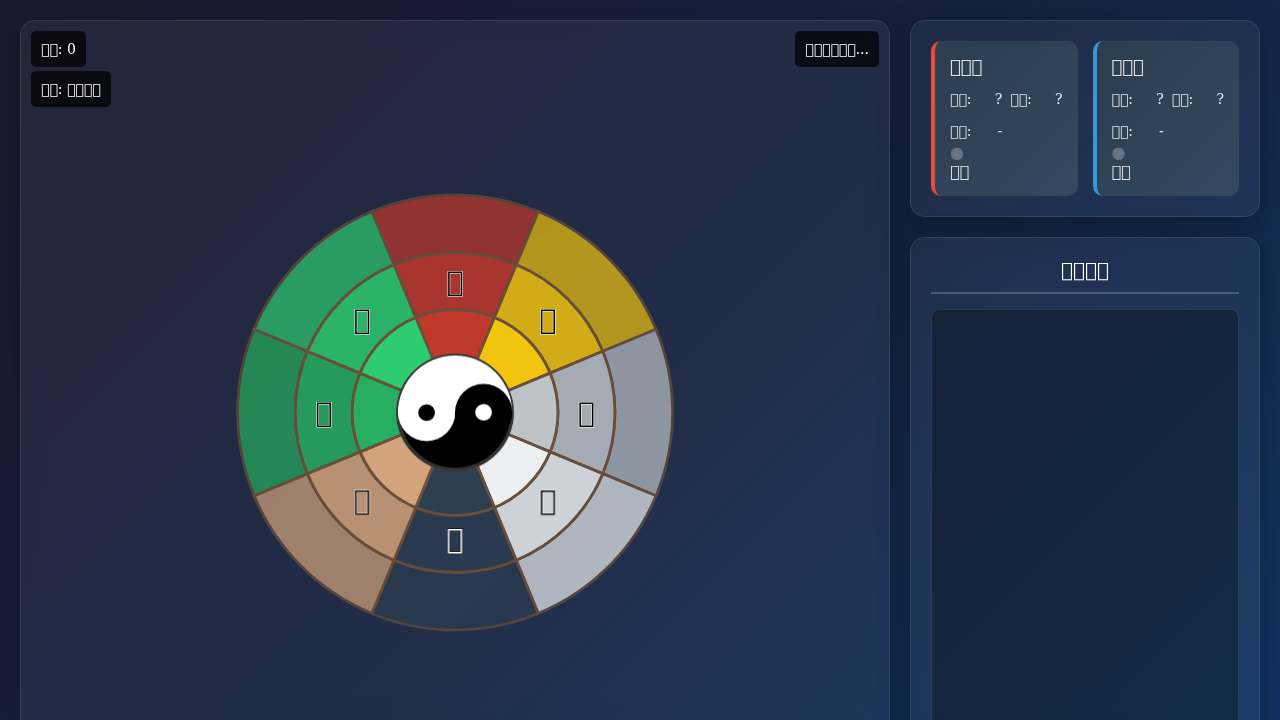
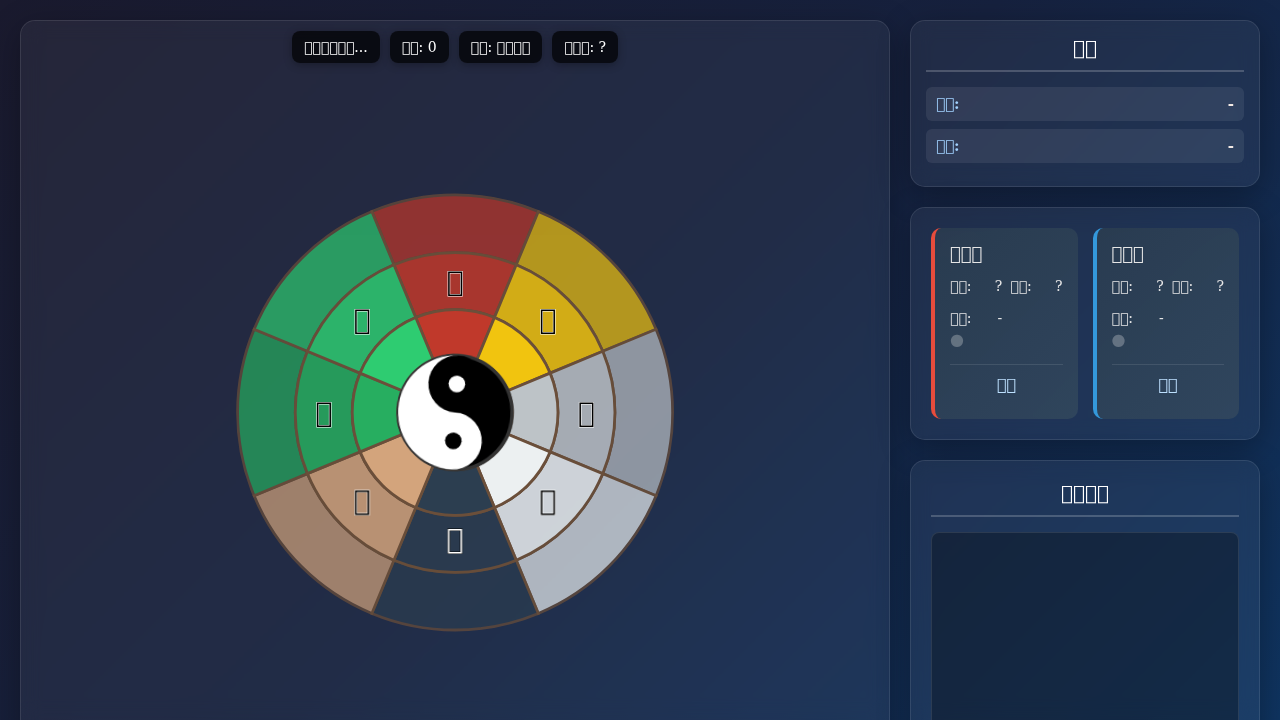
Refactor: Clean up and optimize game logic
This commit addresses several technical debt items and a critical bug to improve the maintainability and robustness of the codebase.

Key changes:
- Fixed a critical bug where the game's turn and solar term progression was handled in two separate places. This logic has been centralized in `Game.run_next_phase()` for clarity and correctness.
- Removed the obsolete `GameState.advance_to_next_player()` method, which was a remnant of the old turn-based system.
- Eliminated redundant `story_logger` configuration in `src/game.py`. The logger is now configured only in the application's entry point (`server.py`).
- Removed the unused `test_cards` parameter and its associated logic from the `Game.setup()` method, cleaning up dead code.

diff --git a/tianji-fix-data-and/static/style.css b/tianji-fix-data-and/static/style.css
@@ -12,12 +12,17 @@ button:disabled { background: #666; cursor: not-allowed; transform: none; box-sh
 .sidebar { display: flex; flex-direction: column; gap: 20px; }
 .panel { background: rgba(255, 255, 255, 0.05); border-radius: 15px; padding: 20px; box-shadow: 0 8px 32px rgba(0, 0, 0, 0.3); backdrop-filter: blur(10px); border: 1px solid rgba(255, 255, 255, 0.1); overflow: hidden; }
 .player-info { display: grid; grid-template-columns: 1fr 1fr; gap: 15px; }
-.player-card { background: linear-gradient(135deg, #2c3e50 0%, #34495e 100%); padding: 15px; border-radius: 10px; border-left: 4px solid; }
+.player-card { background: linear-gradient(135deg, rgba(44, 62, 80, 0.8) 0%, rgba(52, 73, 94, 0.8) 100%); padding: 15px; border-radius: 10px; border-left: 4px solid; display: flex; flex-direction: column;}
 .player-1 { border-left-color: #e74c3c; }
 .player-2 { border-left-color: #3498db; }
 .player-name { font-size: 18px; font-weight: bold; margin-bottom: 10px; display: flex; align-items: center; gap: 8px; }
 .player-stats { display: grid; grid-template-columns: 1fr 1fr; gap: 8px; font-size: 14px; }
 .stat { display: flex; justify-content: space-between; padding: 4px 0; }
+.player-hand-container { margin-top: 15px; padding-top: 10px; border-top: 1px solid rgba(255, 255, 255, 0.1); }
+.player-hand-container h4 { font-size: 16px; margin-bottom: 10px; text-align: center; color: #bde0fe; }
+.player-hand { display: flex; flex-wrap: wrap; gap: 8px; justify-content: center; }
+.card { background: #4a4e69; color: #f2e9e4; padding: 6px 10px; border-radius: 5px; font-size: 13px; border: 1px solid #9a8c98; box-shadow: 0 2px 5px rgba(0,0,0,0.2); cursor: help; transition: all 0.2s ease-in-out; text-align: center; }
+.card:hover { transform: translateY(-2px); background: #6b6392; box-shadow: 0 4px 10px rgba(0,0,0,0.3); }
 h2 { color: #fff; margin-bottom: 15px; font-size: 20px; text-align: center; border-bottom: 2px solid rgba(255, 255, 255, 0.2); padding-bottom: 10px; }
 .zone { stroke: #6b4f3a; stroke-width: 4; cursor: pointer; transition: all 0.3s ease-in-out; }
 .gong-li   { fill: #c0392b; } .gong-kun  { fill: #f1c40f; } .gong-dui  { fill: #bdc3c7; } .gong-qian { fill: #ecf0f1; } .gong-kan  { fill: #2c3e50; } .gong-gen  { fill: #d3a47c; } .gong-zhen { fill: #27ae60; } .gong-xun  { fill: #2ecc71; }
@@ -35,10 +40,12 @@ h2 { color: #fff; margin-bottom: 15px; font-size: 20px; text-align: center; bord
 .qimen-door { pointer-events: none; }
 .door-circle { fill: rgba(255, 255, 255, 0.95); stroke: #4ecdc4; stroke-width: 4; filter: drop-shadow(0 0 12px rgba(78, 205, 196, 0.6)); }
 .door-text { font-size: 23px; font-weight: bold; fill: #2c3e50; text-anchor: middle; dominant-baseline: central; pointer-events: none; font-family: 'KaiTi', 'SimSun', serif; filter: drop-shadow(0 0 8px rgba(255, 255, 255, 0.8)); }
-.ju-info { position: absolute; top: 10px; right: 10px; background: rgba(0, 0, 0, 0.7); color: white; padding: 10px; border-radius: 5px; font-size: 14px; z-index: 1000; }
-.turn-info { position: absolute; top: 10px; left: 10px; background: rgba(0, 0, 0, 0.7); color: white; padding: 10px; border-radius: 5px; font-size: 14px; z-index: 1000; }
-.phase-info { position: absolute; top: 50px; left: 10px; background: rgba(0, 0, 0, 0.7); color: white; padding: 10px; border-radius: 5px; font-size: 14px; z-index: 1000; }
-.player-status { position: absolute; bottom: 10px; left: 10px; background: rgba(0, 0, 0, 0.7); color: white; padding: 10px; border-radius: 5px; font-size: 12px; z-index: 1000; max-width: 300px; }
+.info-bar { position: absolute; top: 10px; left: 10px; right: 10px; display: flex; justify-content: center; z-index: 1000; gap: 10px; }
+.info-bar > div { background: rgba(0, 0, 0, 0.7); color: white; padding: 8px 12px; border-radius: 8px; font-size: 14px; box-shadow: 0 2px 8px rgba(0,0,0,0.3); text-align: center; flex-shrink: 0; }
+.celestial-cards-info { padding: 15px; }
+.celestial-card { display: flex; justify-content: space-between; align-items: center; padding: 8px 10px; background: rgba(255, 255, 255, 0.08); border-radius: 6px; margin-bottom: 8px; font-size: 15px; cursor: help; }
+.celestial-card .card-label { font-weight: bold; color: #a2d2ff; margin-right: 10px; }
+.celestial-card .card-name { font-weight: bold; color: #f2e9e4; }
 .log-panel { flex-grow: 1; display: flex; flex-direction: column; }
 #log-messages { flex-grow: 1; background: rgba(0, 0, 0, 0.3); border-radius: 8px; padding: 15px; overflow-y: auto; font-family: 'Courier New', Courier, monospace; font-size: 14px; line-height: 1.6; color: #a2d2ff; border: 1px solid rgba(255, 255, 255, 0.1); }
 #log-messages p { margin-bottom: 5px; }
@@ -46,3 +53,5 @@ h2 { color: #fff; margin-bottom: 15px; font-size: 20px; text-align: center; bord
 .log-message { border-bottom: 1px solid rgba(162, 210, 255, 0.2); padding-bottom: 5px; margin-bottom: 5px; }
 .log-message.error { color: #ff6b6b; font-weight: bold; }
 .log-message.victory { color: #50fa7b; font-weight: bold; font-size: 16px; text-align: center; }
+.log-message.elimination { color: #ff8fa3; font-style: italic; }
+.winner-overlay { position: fixed; top: 0; left: 0; width: 100%; height: 100%; background: rgba(0, 0, 0, 0.85); color: #50fa7b; font-size: 48px; font-weight: bold; display: flex; align-items: center; justify-content: center; z-index: 9999; text-shadow: 0 0 20px #50fa7b; }

diff --git a/tianji-fix-data-and/static/game.js b/tianji-fix-data-and/static/game.js
@@ -22,6 +22,9 @@ document.addEventListener('DOMContentLoaded', () => {
         juInfo: document.getElementById('ju-info'),
         turnInfo: document.getElementById('turn-info'),
         phaseInfo: document.getElementById('phase-info'),
+        gameFundInfo: document.getElementById('game-fund-info'),
+        celestialStemCardName: document.querySelector('#celestial-stem-card .card-name'),
+        celestialBranchCardName: document.querySelector('#celestial-branch-card .card-name'),
         logMessages: document.getElementById('log-messages'),
         qimenDoorsGroup: document.getElementById('qimen-doors'),
     };
@@ -96,9 +99,30 @@ document.addEventListener('DOMContentLoaded', () => {
 
         // Update Game Info
         const dunText = state.dun_type === "YANG" ? "阳遁" : "阴遁";
-        elements.juInfo.textContent = `${state.solar_term || '未知节气'} | ${dunText} | ${state.current_celestial_stem ? state.current_celestial_stem.name + state.current_terrestrial_branch.name : ''}`;
+        elements.juInfo.textContent = `${state.solar_term || '未知节气'} | ${dunText}`;
         elements.turnInfo.textContent = `回合: ${state.current_turn}`;
         elements.phaseInfo.textContent = `阶段: ${state.current_phase}`;
+        elements.gameFundInfo.textContent = `奖金池: ${state.game_fund}`;
+
+        // Update Celestial Cards Panel
+        const stemCard = state.current_celestial_stem;
+        const branchCard = state.current_terrestrial_branch;
+
+        if (stemCard) {
+            elements.celestialStemCardName.textContent = stemCard.name;
+            elements.celestialStemCardName.parentElement.title = stemCard.description;
+        } else {
+            elements.celestialStemCardName.textContent = '-';
+            elements.celestialStemCardName.parentElement.title = '';
+        }
+
+        if (branchCard) {
+            elements.celestialBranchCardName.textContent = branchCard.name;
+            elements.celestialBranchCardName.parentElement.title = branchCard.description;
+        } else {
+            elements.celestialBranchCardName.textContent = '-';
+            elements.celestialBranchCardName.parentElement.title = '';
+        }
 
         // Update Log
         elements.logMessages.innerHTML = ''; // Clear old logs

diff --git a/tianji-fix-data-and/game.html b/tianji-fix-data-and/game.html
@@ -11,9 +11,12 @@
     <div class="container">
         <div class="game-area">
             <div class="game-board-container">
-                <div class="ju-info" id="ju-info">等待游戏开始...</div>
-                <div class="turn-info" id="turn-info">回合: 0</div>
-                <div class="phase-info" id="phase-info">阶段: 等待开始</div>
+                <div class="info-bar">
+                    <div class="ju-info" id="ju-info">等待游戏开始...</div>
+                    <div class="turn-info" id="turn-info">回合: 0</div>
+                    <div class="phase-info" id="phase-info">阶段: 等待开始</div>
+                    <div class="game-fund-info" id="game-fund-info">奖金池: ?</div>
+                </div>
 
                 <svg id="game-board" viewBox="0 0 800 800">
                     <g id="di-ring" class="ring-group"></g>
@@ -39,6 +42,17 @@
             </div>
         </div>
         <div class="sidebar">
+            <div class="panel celestial-cards-info">
+                <h2>天时</h2>
+                <div class="celestial-card" id="celestial-stem-card">
+                    <span class="card-label">天干:</span>
+                    <span class="card-name">-</span>
+                </div>
+                <div class="celestial-card" id="celestial-branch-card">
+                    <span class="card-label">地支:</span>
+                    <span class="card-name">-</span>
+                </div>
+            </div>
             <div class="panel player-info">
                 <div class="player-card player-1">
                     <div class="player-name" id="player1-name">玩家一</div>

diff --git a/src/game.py b/src/game.py
@@ -11,6 +11,7 @@ from .card import Card
 from .effect_engine import EffectEngine
 from . import five_elements as fe
 from . import qimen as qm
+from .solar_term import SOLAR_TERMS_CYCLE
 from .phases import (
     time_phase,
     placement_phase,
@@ -20,15 +21,9 @@ from .phases import (
     upkeep_phase,
 )
 
-# Setup a dedicated logger for the game's narrative story
+# Get the logger for the game's narrative story.
+# The configuration of this logger is handled in the main application entry point (e.g., server.py).
 story_logger = logging.getLogger("story_logger")
-story_logger.setLevel(logging.INFO)
-story_logger.propagate = False
-if not story_logger.handlers:
-    handler = logging.StreamHandler()
-    formatter = logging.Formatter('%(message)s')
-    handler.setFormatter(formatter)
-    story_logger.addHandler(handler)
 
 
 class Game:
@@ -55,8 +50,8 @@ class Game:
         self.phase_index = 0
 
 
-    def setup(self, test_cards: List[str] = None):
-        """Initializes the game state, with an option to inject specific test cards."""
+    def setup(self):
+        """Initializes the game state."""
         logging.info("--- Setting up a new game of Tianji Bian ---")
         story_logger.info("--- Setting up a new game of Tianji Bian ---")
 
@@ -91,15 +86,6 @@ class Game:
         if ren_zones and len(self.game_state.players) > 2:
              self.game_state.players[2].position = ren_zones[1]
 
-        if test_cards:
-            for i, player in enumerate(self.game_state.players):
-                if i < len(test_cards):
-                    card_id_to_find = test_cards[i]
-                    test_card = next((c for c in self.game_state.basic_deck if c.card_id == card_id_to_find), None)
-                    if test_card:
-                        player.add_card_to_hand(test_card)
-                        self.game_state.basic_deck.remove(test_card)
-
         for player in self.game_state.players:
             while len(player.hand) < 7:
                 self._reshuffle_if_needed('basic')
@@ -123,6 +109,14 @@ class Game:
         if self.phase_index == 0:
             self.game_state.current_turn += 1
             story_logger.info(f"\n***** Round {self.game_state.current_turn} *****")
+
+            # A full round of play has passed, advance to the next solar term
+            if self.game_state.current_turn > 1: # Don't advance on the first round's start
+                self.game_state.solar_term_index = (self.game_state.solar_term_index + 1) % len(SOLAR_TERMS_CYCLE)
+                story_logger.info(f"*** New Solar Term: {self.game_state.current_solar_term.name} ({self.game_state.dun_type.value} Dun). ***")
+                # The Qi Men gates shift with the new solar term
+                self._update_qimen_gates()
+
             self._resolve_delayed_effects("NEXT_TURN_START")
 
         # Get the current phase

diff --git a/jules-scratch/verification/verify_ui_enhancements.py b/jules-scratch/verification/verify_ui_enhancements.py
@@ -1,0 +1,43 @@
+from playwright.sync_api import sync_playwright, expect
+
+def run_verification(playwright):
+    """
+    This script verifies the new UI enhancements for the Tianji Bian web application.
+    - It checks that the new Game Fund and Celestial Card panels are visible.
+    - It takes a screenshot of the initial, fully-rendered UI.
+    """
+    browser = playwright.chromium.launch(headless=True)
+    page = browser.new_page()
+
+    try:
+        # 1. Navigate to the application
+        page.goto("http://127.0.0.1:5000")
+
+        # 2. Wait for the initial game state to load and verify new elements.
+        # Check for the Game Fund display
+        expect(page.locator("#game-fund-info")).to_contain_text("奖金池:", timeout=10000)
+        expect(page.locator("#game-fund-info")).not_to_contain_text("?", timeout=10000)
+
+        # Check for the Celestial Cards panel
+        expect(page.locator("#celestial-stem-card .card-name")).not_to_have_text("-", timeout=10000)
+        expect(page.locator("#celestial-branch-card .card-name")).not_to_have_text("-", timeout=10000)
+
+        # Check that player hands are rendered
+        expect(page.locator("#player1-hand")).not_to_be_empty()
+        expect(page.locator("#player2-hand")).not_to_be_empty()
+
+        # 3. Take a screenshot for visual confirmation.
+        screenshot_path = "jules-scratch/verification/ui_enhancements.png"
+        page.screenshot(path=screenshot_path)
+        print(f"Screenshot saved to {screenshot_path}")
+
+    except Exception as e:
+        print(f"An error occurred during Playwright execution: {e}")
+        page.screenshot(path="jules-scratch/verification/error.png")
+
+    finally:
+        browser.close()
+
+if __name__ == "__main__":
+    with sync_playwright() as playwright:
+        run_verification(playwright)

diff --git a/src/game_state.py b/src/game_state.py
@@ -67,24 +67,6 @@ class GameState:
         """Returns the player whose turn it is."""
         return self.players[self.active_player_index]
 
-    def advance_to_next_player(self):
-        """
-        Advances the turn to the next player.
-        When a full cycle of players completes, advances the solar term.
-        """
-        self.active_player_index = (self.active_player_index + 1) % len(self.players)
-        
-        # Always increment turn when we complete a full player cycle
-        if self.active_player_index == 0:
-            self.current_turn += 1
-            logging.info(f"--- Starting Round {self.current_turn} ---")
-
-        # Check if we've completed a full cycle of starting players
-        if self.active_player_index == self.starting_player_index:
-            # A full round of play has passed, advance to the next solar term
-            self.solar_term_index = (self.solar_term_index + 1) % len(SOLAR_TERMS_CYCLE)
-            logging.info(f"*** New Solar Term: {self.current_solar_term.name} ({self.dun_type} Dun). Qi Men Gates will shift. ***")
-
     def set_phase(self, phase_name: str):
         """Sets the current game phase."""
         self.current_phase = phase_name

diff --git a/src/phases/upkeep_phase.py b/src/phases/upkeep_phase.py
@@ -31,6 +31,4 @@ def execute(game_instance):
     # Reset any round-specific states
     game_state.skipped_phases.clear()
     story_logger.info("  - Round-specific effects (like skipped phases) are now reset.")
-
-    game_state.advance_to_next_player()
-    story_logger.info(f"  - The turn passes to the next player: {game_state.get_active_player().name}.")
+    story_logger.info("  - The round concludes.")
